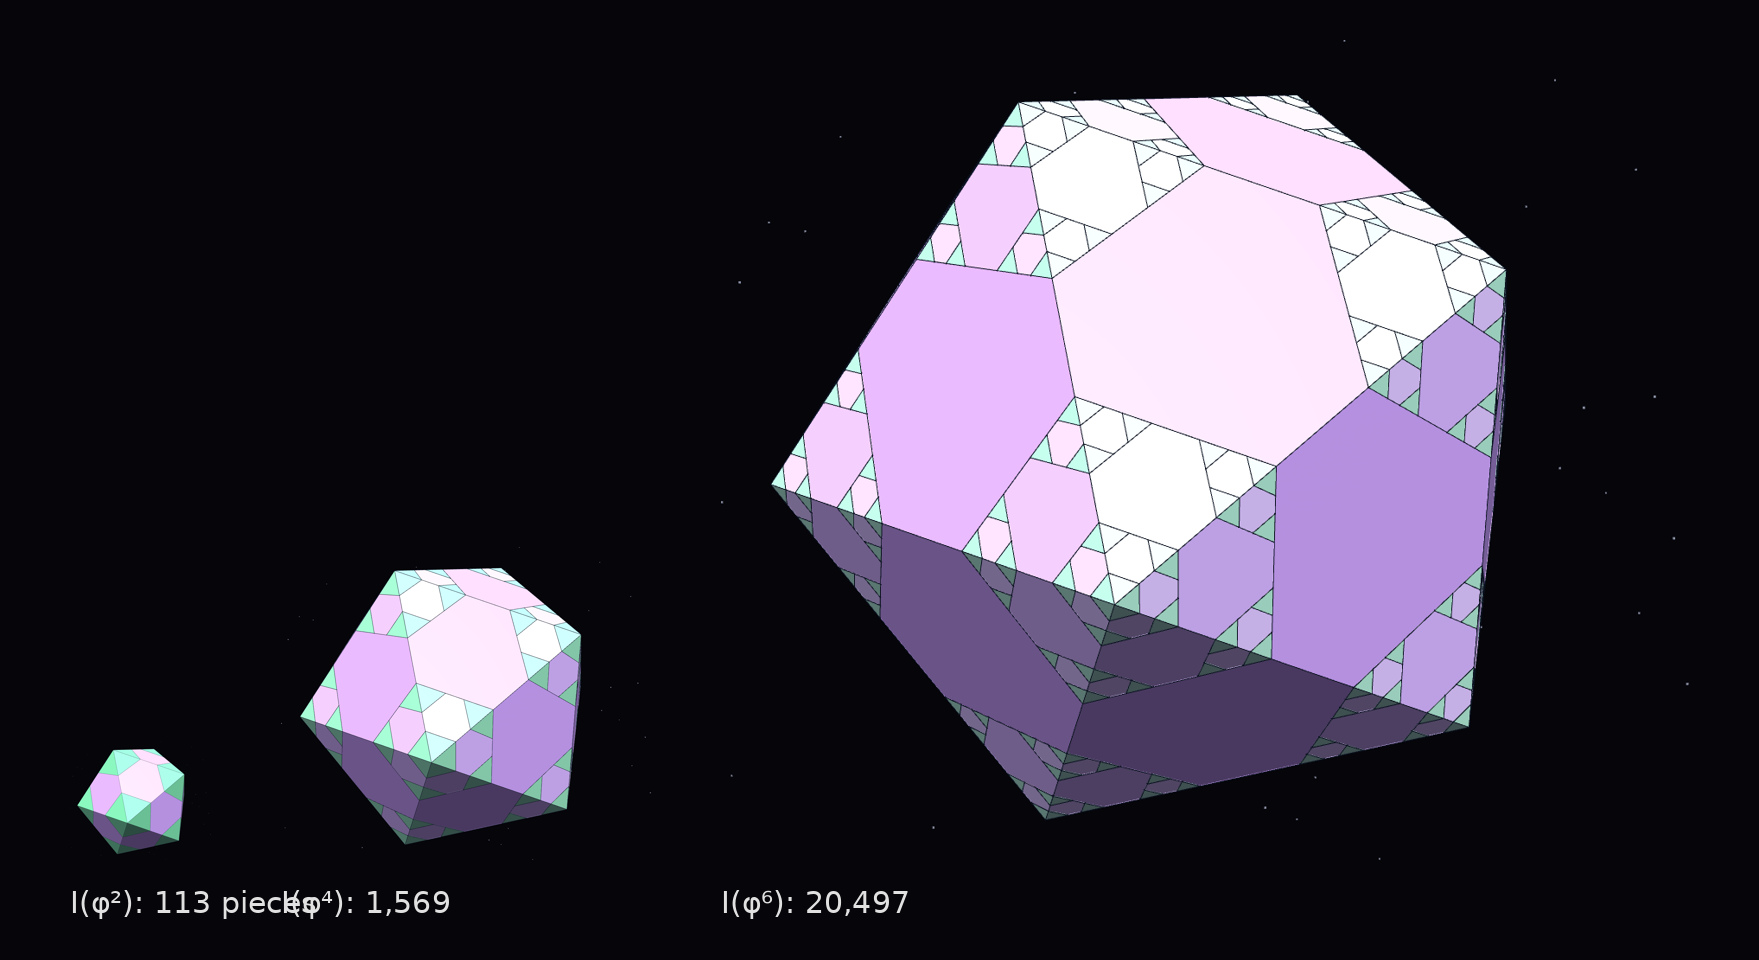
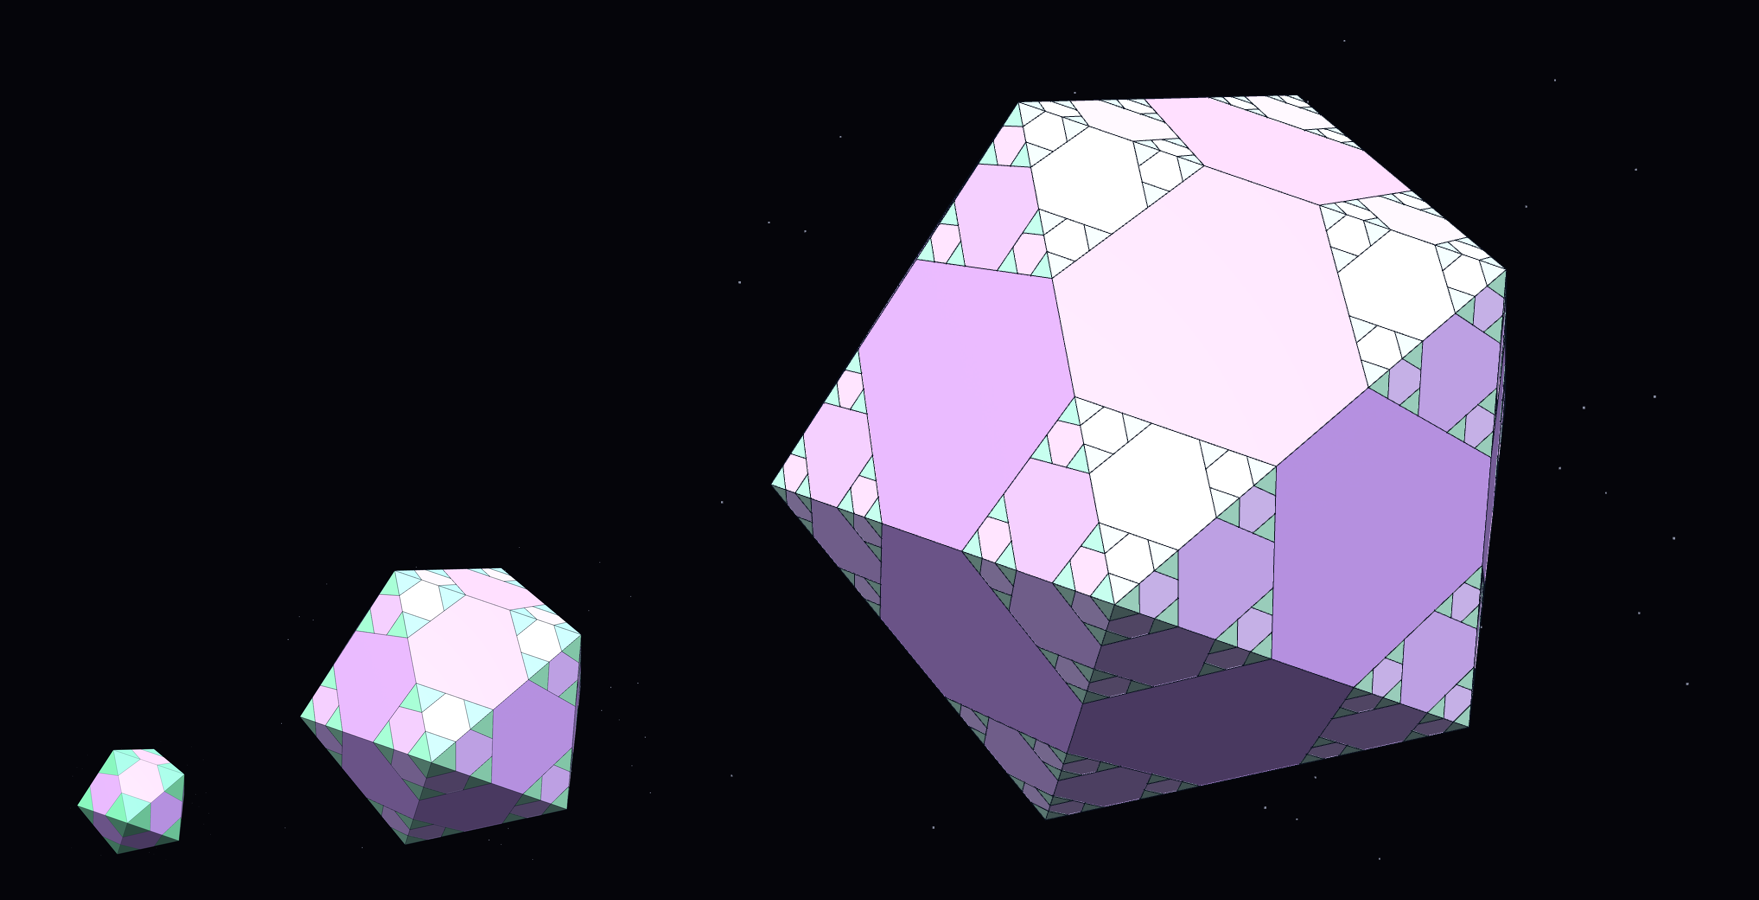
Chain of Karma v2: growth figure without overlapping labels (counts in the caption)

diff --git a/papers/chain-of-karma/paper.html b/papers/chain-of-karma/paper.html
@@ -37,7 +37,7 @@ log 12 / log φ² ≈ 2.5819 (12 corner copies only).</p>
 
 <figure><img src="https://raw.githubusercontent.com/DICTOR-Master/kaleidohedra/master/papers/chain-of-karma/fig/lotus-open.jpg" alt="Figure 1" style="width:100%"><figcaption><b>Figure 1.</b> The Lotus seed pulled apart.</figcaption></figure>
 <figure><img src="https://raw.githubusercontent.com/DICTOR-Master/kaleidohedra/master/papers/chain-of-karma/fig/full-1-green.jpg" alt="Figure 2" style="width:100%"><figcaption><b>Figure 2.</b> The Lotus seed closed: its surface carries the fullerene (C60) pattern, with the 20 flat-ended triangles (sides 1 and 1/φ alternating, all angles 120°) in green.</figcaption></figure>
-<figure><img src="https://raw.githubusercontent.com/DICTOR-Master/kaleidohedra/master/papers/chain-of-karma/fig/growth.png" alt="Figure 3" style="width:100%"><figcaption><b>Figure 3.</b> The Chain of Karma growing, at true relative size: the Lotus seed I(φ²), step 2 I(φ⁴) and step 3 I(φ⁶). Each step replaces every icosahedron by a Lotus seed of its own size; the pieces keep their sizes and the whole grows by φ² per step.</figcaption></figure>
+<figure><img src="https://raw.githubusercontent.com/DICTOR-Master/kaleidohedra/master/papers/chain-of-karma/fig/growth.png" alt="Figure 3" style="width:100%"><figcaption><b>Figure 3.</b> The Chain of Karma growing, at true relative size: left to right the Lotus seed I(φ²) (113 pieces), step 2 I(φ⁴) (1,569) and step 3 I(φ⁶) (20,497). Each step replaces every icosahedron by a Lotus seed of its own size; the pieces keep their sizes and the whole grows by φ² per step.</figcaption></figure>
 <h2>3. The gap pieces and the Dehn invariant</h2>
 <p>Every dihedral angle of the kit is, modulo 180°, an integer combination of α = arccos(√5/3) = 41.810° and
 δ = arctan(3 − √5) = 37.377°. This makes the Dehn invariant computable exactly (coordinates in Q(√5), integer relations by PSLQ).
